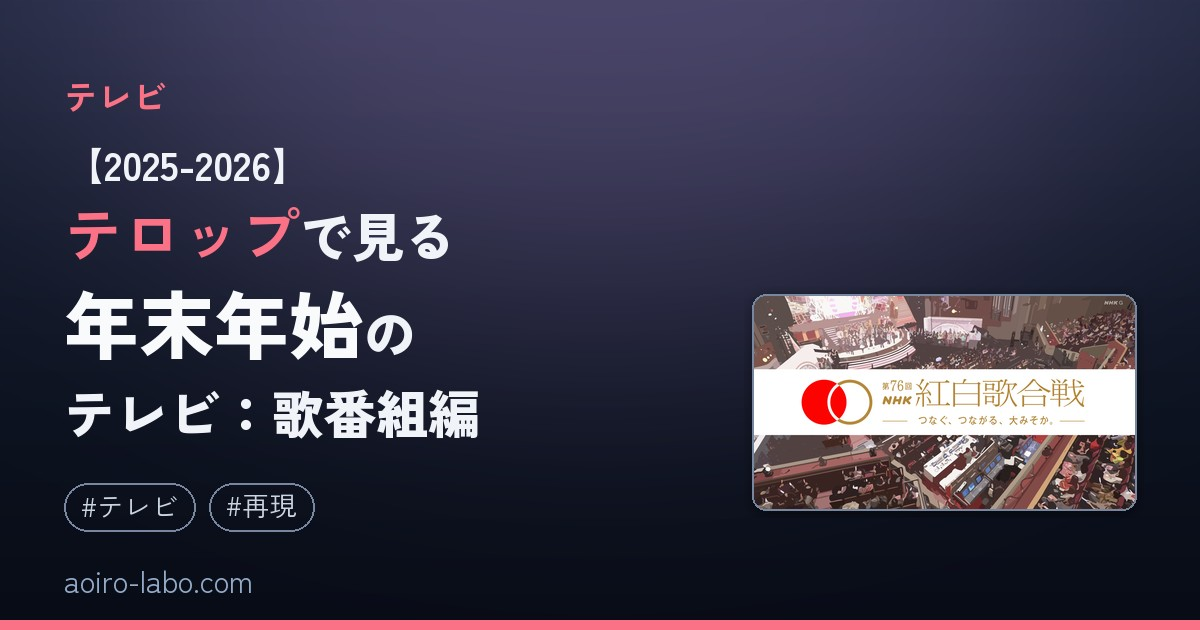
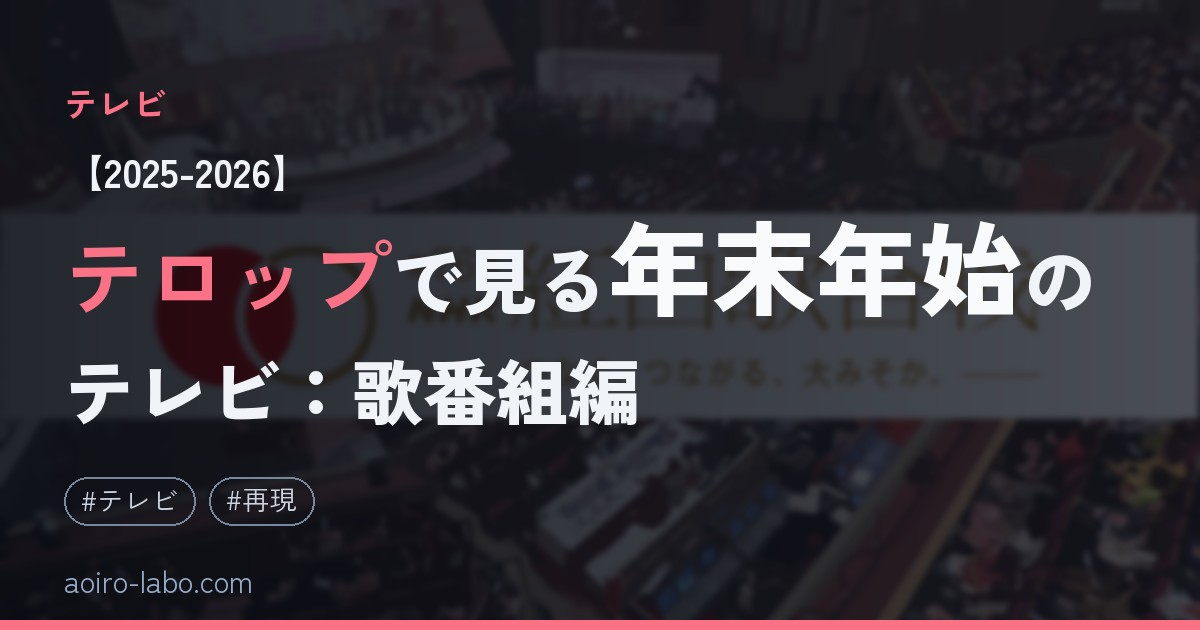
カバー生成：画像は全面背景を既定にし、明るさ適応の暗転とぼかしで文字を立たせる

diff --git a/tools/generate_cover.py b/tools/generate_cover.py
@@ -297,14 +297,6 @@ def load_image(src):
         print('  img load failed:', src[:80], e)
         return None
 
-def bg_suitable(im):
-    # bright or busy images fight the title text; only dark, calm ones may go full-bg
-    from PIL import ImageStat
-    g = im.convert("L")
-    small = g.resize((320, max(1, int(320*g.size[1]/g.size[0]))))
-    edges = small.filter(ImageFilter.FIND_EDGES)
-    return ImageStat.Stat(g).mean[0] < 80 and ImageStat.Stat(edges).mean[0] < 20
-
 def ns_pick(path):
     return pick_image(path, 'auto')
 
@@ -391,18 +383,24 @@ def make(path, out, hero_override=None, emphasis_override=None):
         pic = load_image(cimg)
     else:
         pic = None
-    use_bg = pic is not None and (cimg=='bg' or (cimg=='auto' and pic.size[0]>=1600 and pic.size[1]>=900 and bg_suitable(pic)))
+    use_bg = pic is not None
     panel = None if use_bg else (pic if cimg in ('auto',) or (cimg and cimg not in ('none','bg')) else None)
     if use_bg:
         if True:
             scale=max(W/pic.size[0], H/pic.size[1])
             nw,nh=int(pic.size[0]*scale+0.5), int(pic.size[1]*scale+0.5)
             bgimg=pic.resize((nw,nh), Image.LANCZOS).crop(((nw-W)//2,(nh-H)//2,(nw-W)//2+W,(nh-H)//2+H))
+            from PIL import ImageStat
+            g=bgimg.convert('L'); mean=ImageStat.Stat(g).mean[0]
+            esmall=g.resize((320, int(320*g.size[1]/g.size[0]))).filter(ImageFilter.FIND_EDGES)
+            if ImageStat.Stat(esmall).mean[0] >= 20:
+                bgimg=bgimg.filter(ImageFilter.GaussianBlur(3))
+            alpha=min(0.9, max(0.62, 1-52/max(mean,1)))
             dark=Image.new('RGB',(W,H),(10,15,26))
-            img=Image.blend(bgimg, dark, 0.62)
+            img=Image.blend(bgimg, dark, alpha)
             grad=Image.new('L',(W,1))
             for gx in range(W):
-                grad.putpixel((gx,0), int(150*(1-gx/W)))
+                grad.putpixel((gx,0), int(60+110*(1-gx/W)))
             shade=Image.new('RGB',(W,H),(6,9,16))
             img=Image.composite(shade, img, grad.resize((W,H)))
             d=ImageDraw.Draw(img)
